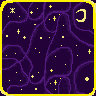
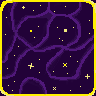
feat: Connected textures

diff --git a/main.py b/main.py
@@ -185,8 +185,78 @@ def load_map(number):
     except ValueError:
         print("Map does not exist, something might've broken!")
 
+
 player = Player(surface=pygame.image.load("assets/player.png"),
                 rect=pygame.Rect((0, 0), (32,32)))
+tile_dict = {}
+tile_size = (32,32)
+def temp():
+   
+    for ss in collider_list:
+        tile_dict[str(ss.rect.topleft)] = ss
+    for ss in collider_list:
+        if tile_dict[str(ss.rect.topleft)] != None:
+            block_left = False
+            block_right = False
+            block_up = False
+            block_down = False
+            if tile_dict.get(str((ss.rect.x-32, ss.rect.y))) != None: block_left = True
+            if tile_dict.get(str((ss.rect.x+32, ss.rect.y))) != None: block_right = True
+            if tile_dict.get(str((ss.rect.x, ss.rect.y-32))) != None: block_up = True
+            if tile_dict.get(str((ss.rect.x, ss.rect.y+32))) != None: block_down = True
+            truth_list = [block_left,block_right,block_up,block_down]
+            match truth_list:
+                case [1,0,0,0]:
+                    tile_img = 'assets/horiblock.png'
+                    tile_pos = (64,0)  
+                case [0,1,0,0]:
+                    tile_img = 'assets/horiblock.png'
+                    tile_pos = (0,0)
+                case [1,1,0,0]:
+                    tile_img = 'assets/horiblock.png'
+                    tile_pos = (32,0)
+                case [0,0,1,0]:
+                    tile_img = 'assets/verblock.png'
+                    tile_pos = (0,64)  
+                case [0,0,0,1]:
+                    tile_img = 'assets/verblock.png'
+                    tile_pos = (0,0)   
+                case [0,0,1,1]:
+                    tile_img = 'assets/verblock.png'
+                    tile_pos = (0,32)         
+                case [0,1,0,1]:
+                    tile_img = 'assets/bigone.png'
+                    tile_pos = (0,0)       
+                case [1,1,0,1]:
+                    tile_img = 'assets/bigone.png'
+                    tile_pos = (32,0)
+                case [1,0,0,1]:
+                    tile_img = 'assets/bigone.png'
+                    tile_pos = (64,0)   
+                case [0,1,1,1]:
+                    tile_img = 'assets/bigone.png'
+                    tile_pos = (0,32)   
+                case [1,1,1,1]:
+                    tile_img = 'assets/bigone.png'
+                    tile_pos = (32,32)  
+                case [1,0,1,1]:
+                    tile_img = 'assets/bigone.png'
+                    tile_pos = (64,32) 
+                case [0,1,1,0]:
+                    tile_img = 'assets/bigone.png'
+                    tile_pos = (0,64) 
+                case [1,1,1,0]:
+                    tile_img = 'assets/bigone.png'
+                    tile_pos = (32,64)     
+                case [1,0,1,0]:
+                    tile_img = 'assets/bigone.png'
+                    tile_pos = (64,64)                                  
+                case _:
+                    tile_img = 'assets/block1.png'
+                    tile_pos = (0,0)
+            tile_surface = pygame.image.load(tile_img)
+            pygame.Surface.convert_alpha(tile_surface)
+            tile_dict[str(ss.rect.topleft)].surface = pygame.Surface.subsurface(tile_surface,((tile_pos),(32,32)))
 
 while running:
     delta_time = clock.tick(60)*3/50
@@ -217,6 +287,7 @@ while running:
                 if not any(rect == collider.rect for collider in collider_list):
                     set_collider(ScreenSurface(surface=pygame.image.load("assets/block1.png"),
                                             rect=rect, map = "assets/block1.png"))
+                    temp()
         if event.type == pygame.KEYDOWN:
             if event.key == pygame.K_ESCAPE:
                 current_screen = ScreenEnum.MAIN_MENU
@@ -283,11 +354,10 @@ while running:
             player.draw()
             for surface in surface_list:
                 surface.draw()
-            for i in range(HORIZONTAL_SIZE//32):
-                pygame.draw.line(screen, (255,255,255),(i*32,0),(i*32,VERTICAL_SIZE))
-            for n in range(VERTICAL_SIZE//32):
-                pygame.draw.line(screen, (255,255,255),(0,n*32),(HORIZONTAL_SIZE,n*32))
-            pygame.draw.line(screen, (255,255,255),(0,11*32),(HORIZONTAL_SIZE,11*32))
+           # for i in range(HORIZONTAL_SIZE//32 + 1):
+            #    pygame.draw.line(screen, (255,255,255),(i*32,0),(i*32,VERTICAL_SIZE))
+            #for n in range(VERTICAL_SIZE//32 + 1):
+            #    pygame.draw.line(screen, (255,255,255),(0,n*32),(HORIZONTAL_SIZE,n*32))
             #updates the screen
             pygame.display.flip()
             menu_loaded = False
